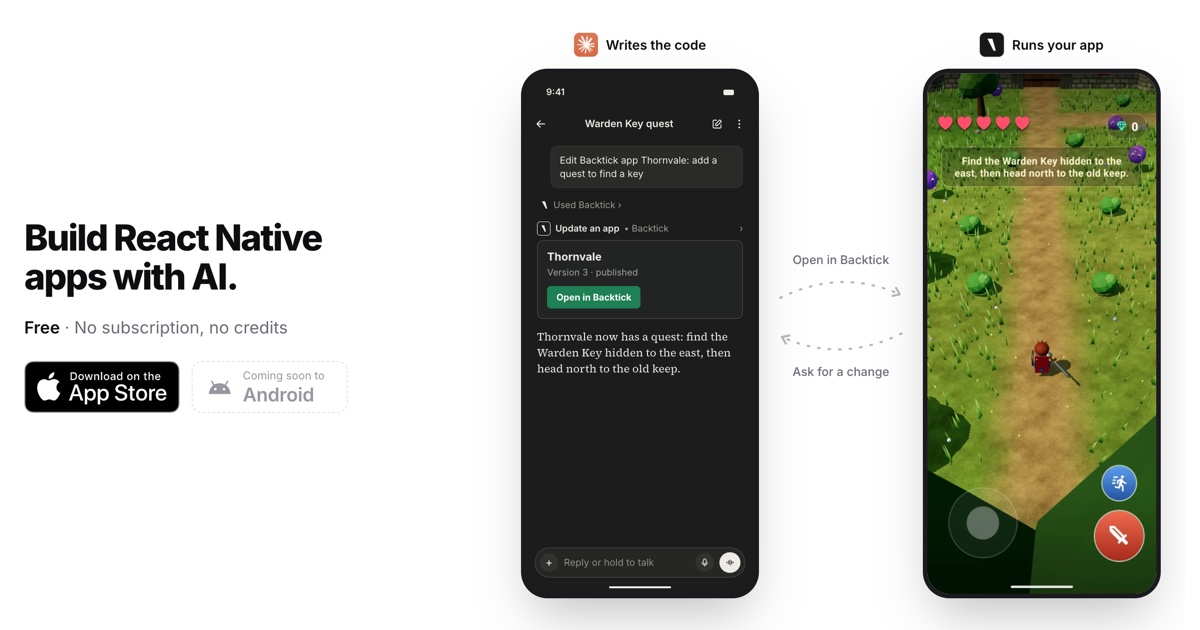
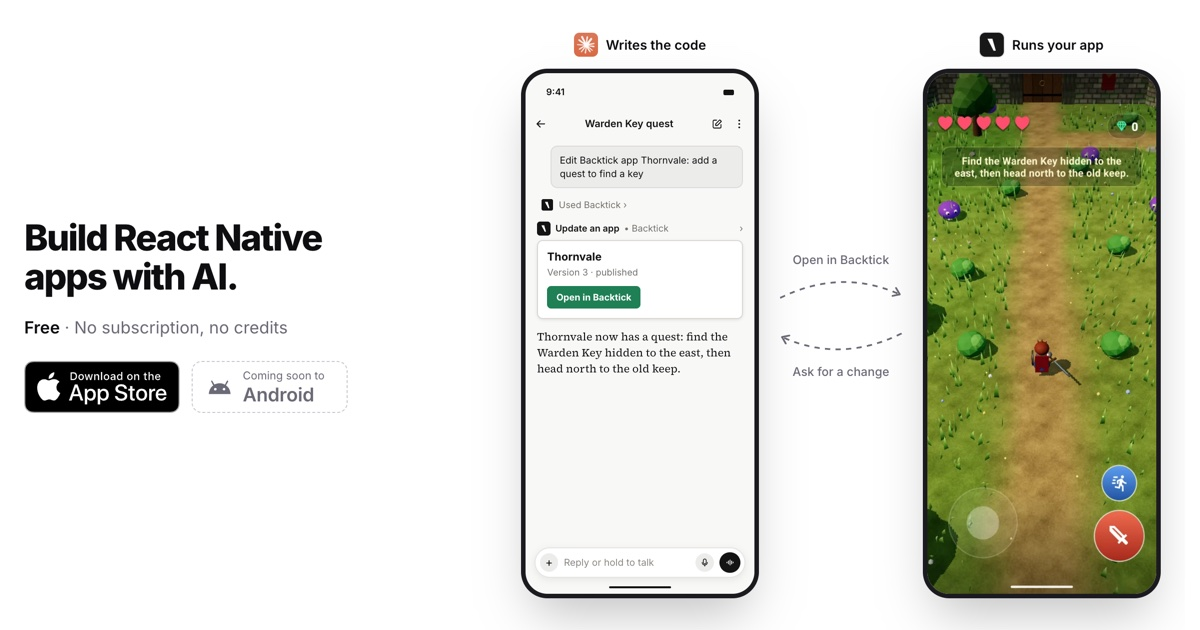
Update the claude colors to match the device theme

Changed region(s): [[0.4317, 0.0905, 0.6475, 0.9651], [0.7708, 0.1206, 0.9867, 0.9651], [0.1542, 0.6032, 0.2775, 0.6333]]

diff --git a/apps/backtickjs.com/src/pages/Home.tsx b/apps/backtickjs.com/src/pages/Home.tsx
@@ -40,7 +40,7 @@ export const Home = cs`() => (
             // The App Store badge's shape and layout, dashed for "not yet".
             // The Android robot is free to use with credit (on the terms
             // page); no Google Play badge until the app is on Google Play.
-            <span class="inline-flex h-[52px] w-[156px] items-center gap-2.5 rounded-[10px] border border-dashed border-line px-3.5 leading-none text-muted/70 select-none">
+            <span class="inline-flex h-[52px] w-[156px] items-center gap-2.5 rounded-[10px] border border-dashed border-[light-dark(#c9c9cf,#4a4a52)] px-3.5 leading-none text-muted select-none">
               <svg
                 viewBox="0 0 24 14"
                 aria-hidden="true"
@@ -89,21 +89,22 @@ export const Home = cs`() => (
           </figcaption>
           {/* A Claude chat, drawn here rather than captured, laid out as
               Claude's mobile app shows a Backtick update: the request, the
-              tool call, its card, then Claude's reply. Sized like the game
-              screenshot beside it, with text in container units so it
-              scales with the phone. */}
+              tool call, its card, then Claude's reply. In Claude's light theme on
+              the light page and its dark theme on the dark one, so it sits in
+              the page rather than standing out. Sized like the game screenshot beside
+              it, with text in container units so it scales with the phone. */}
           <div
             role="img"
             aria-label="A Claude chat: Claude updated Thornvale with Backtick, version 3 published, with an Open in Backtick button"
-            class="@container relative flex aspect-[898/2000] w-full flex-col overflow-hidden rounded-[clamp(14px,2.2vw,30px)] border-[clamp(3px,0.4vw,5px)] border-[#1b1b1f] bg-[#1c1c1b] text-[#ecebe6] shadow-2xl select-none md:h-[min(580px,calc(100svh-230px))] md:w-auto"
+            class="@container relative flex aspect-[898/2000] w-full flex-col overflow-hidden rounded-[clamp(14px,2.2vw,30px)] border-[clamp(3px,0.4vw,5px)] border-[light-dark(#1b1b1f,#000000)] ring-1 ring-[color:light-dark(transparent,rgb(255_255_255/0.12))] bg-[light-dark(#f8f8f6,#1c1c1b)] text-[light-dark(#141413,#ecebe6)] shadow-2xl select-none md:h-[min(580px,calc(100svh-230px))] md:w-auto"
           >
             <div class="flex items-center justify-between px-[9cqw] pt-[5cqw] text-[4cqw] font-semibold">
               <span>9:41</span>
               <span class="flex items-center gap-[1.5cqw]">
-                <span class="h-[2.4cqw] w-[4.5cqw] rounded-[0.6cqw] bg-[#ecebe6]" />
+                <span class="h-[2.4cqw] w-[4.5cqw] rounded-[0.6cqw] bg-[light-dark(#141413,#ecebe6)]" />
               </span>
             </div>
-            <div class="flex items-center gap-[4cqw] px-[4cqw] pt-[7cqw] pb-[4cqw] text-[#ecebe6]">
+            <div class="flex items-center gap-[4cqw] px-[4cqw] pt-[7cqw] pb-[4cqw] text-[light-dark(#141413,#ecebe6)]">
               <svg
                 viewBox="0 0 20 20"
                 class="size-[5.5cqw] shrink-0"
@@ -140,23 +141,25 @@ export const Home = cs`() => (
               </svg>
             </div>
             <div class="flex flex-1 flex-col gap-[4.5cqw] px-[5cqw] pt-[2cqw] text-[4.2cqw] leading-[1.4]">
-              <p class="ml-[6cqw] rounded-[3cqw] border border-[#2f2f2d] bg-[#2a2a28] px-[3.5cqw] py-[3cqw]">
+              <p class="ml-[6cqw] rounded-[3cqw] border border-[light-dark(#dddcd7,#2f2f2d)] bg-[light-dark(#ececea,#2a2a28)] px-[3.5cqw] py-[3cqw]">
                 Edit Backtick app Thornvale: add a quest to find a key
               </p>
-              <p class="ml-[2cqw] flex items-center gap-[2.5cqw] text-[4cqw] text-[#9c9a94]">
-                <svg
-                  viewBox="178 0 29 37"
-                  class="h-[3.4cqw] w-auto text-[#ecebe6]"
-                  fill="currentColor"
-                  aria-hidden="true"
-                >
-                  <path d="M205 36H198.161L180 1H194.773L205 36Z" />
-                </svg>
+              <p class="ml-[2cqw] flex items-center gap-[2.5cqw] text-[4cqw] text-[light-dark(#73726c,#9c9a94)]">
+                <span class="grid size-[5cqw] shrink-0 place-items-center rounded-[0.8cqw] bg-[light-dark(#141413,transparent)] text-[light-dark(#ffffff,#ecebe6)]">
+                  <svg
+                    viewBox="178 0 29 37"
+                    class="h-[3cqw] w-auto"
+                    fill="currentColor"
+                    aria-hidden="true"
+                  >
+                    <path d="M205 36H198.161L180 1H194.773L205 36Z" />
+                  </svg>
+                </span>
                 Used Backtick ›
               </p>
               <div>
                 <p class="mb-[2cqw] flex items-center gap-[2cqw] text-[4cqw]">
-                  <span class="grid size-[6cqw] shrink-0 place-items-center rounded-[1.3cqw] border-[0.4cqw] border-[#ecebe6]">
+                  <span class="grid size-[6cqw] shrink-0 place-items-center rounded-[1.3cqw] border-[0.4cqw] border-[light-dark(#141413,#ecebe6)] bg-[light-dark(#141413,transparent)] text-[light-dark(#ffffff,#ecebe6)]">
                     <svg
                       viewBox="178 0 29 37"
                       class="h-[3cqw] w-auto"
@@ -167,12 +170,16 @@ export const Home = cs`() => (
                     </svg>
                   </span>
                   <span class="font-semibold">Update an app</span>
-                  <span class="text-[#9c9a94]">• Backtick</span>
-                  <span class="ml-auto text-[#9c9a94]">›</span>
+                  <span class="text-[light-dark(#73726c,#9c9a94)]">
+                    • Backtick
+                  </span>
+                  <span class="ml-auto text-[light-dark(#73726c,#9c9a94)]">
+                    ›
+                  </span>
                 </p>
-                <div class="rounded-[2.5cqw] border border-[#3a3a37] bg-[#212422] px-[4cqw] py-[4cqw]">
+                <div class="rounded-[2.5cqw] border border-[light-dark(#d9d8d2,#3a3a37)] bg-[light-dark(#ffffff,#212422)] px-[4cqw] py-[4cqw] shadow-[0_1px_3px_light-dark(#0000001a,#0000)]">
                   <p class="text-[4.8cqw] leading-tight font-bold">Thornvale</p>
-                  <p class="mt-[1cqw] text-[4cqw] text-[#a3a19b]">
+                  <p class="mt-[1cqw] text-[4cqw] text-[light-dark(#73726c,#a3a19b)]">
                     Version 3 · published
                   </p>
                   <span class="mt-[3cqw] inline-block rounded-[1.8cqw] bg-[#1f7f55] px-[4cqw] py-[2.2cqw] text-[4cqw] font-bold text-white">
@@ -180,22 +187,21 @@ export const Home = cs`() => (
                   </span>
                 </div>
               </div>
-              <p class="font-serif text-[4.8cqw] leading-[1.45] text-[#ecebe6] antialiased">
+              <p class="font-serif text-[4.8cqw] leading-[1.45] text-[light-dark(#141413,#ecebe6)] antialiased">
                 Thornvale now has a quest: find the Warden Key hidden to the
                 east, then head north to the old keep.
               </p>
             </div>
-            <div class="mx-[4cqw] mb-[7cqw] flex items-center gap-[2.5cqw] rounded-full border border-[#3a3a37] bg-[#262624] p-[1.8cqw] text-[4.2cqw] text-[#8f8d87]">
-              <span class="grid size-[8cqw] place-items-center rounded-full bg-[#323230] text-[5cqw] leading-none text-[#ecebe6]">
+            <div class="mx-[4cqw] mb-[7cqw] flex items-center gap-[2.5cqw] rounded-full border border-[light-dark(#e6e5e0,#3a3a37)] bg-[light-dark(#ffffff,#262624)] shadow-[0_2px_8px_light-dark(#00000014,#0000)] p-[1.8cqw] text-[4.2cqw] text-[light-dark(#8a8880,#8f8d87)]">
+              <span class="grid size-[8cqw] place-items-center rounded-full bg-[light-dark(#ececea,#323230)] text-[5cqw] leading-none text-[light-dark(#141413,#ecebe6)]">
                 +
               </span>
               <span class="flex-1">Reply or hold to talk</span>
-              <span class="grid size-[8cqw] place-items-center rounded-full bg-[#323230]">
+              <span class="grid size-[8cqw] place-items-center rounded-full bg-[light-dark(#ececea,#323230)]">
                 <svg
+                  class="size-[4.2cqw] stroke-[light-dark(#141413,#ecebe6)]"
                   viewBox="0 0 20 20"
-                  class="size-[4.2cqw]"
                   fill="none"
-                  stroke="#ecebe6"
                   stroke-width="1.6"
                   stroke-linecap="round"
                 >
@@ -203,12 +209,11 @@ export const Home = cs`() => (
                   <path d="M4.5 9.5a5.5 5.5 0 0 0 11 0M10 15v2.5" />
                 </svg>
               </span>
-              <span class="grid size-[9cqw] place-items-center rounded-full bg-[#ecebe6]">
+              <span class="grid size-[9cqw] place-items-center rounded-full bg-[light-dark(#141413,#ecebe6)]">
                 <svg
+                  class="size-[4.5cqw] stroke-[light-dark(#ffffff,#1c1c1b)]"
                   viewBox="0 0 20 20"
-                  class="size-[4.5cqw]"
                   fill="none"
-                  stroke="#1c1c1b"
                   stroke-width="1.6"
                   stroke-linecap="round"
                 >
@@ -216,7 +221,7 @@ export const Home = cs`() => (
                 </svg>
               </span>
             </div>
-            <span class="absolute bottom-[2.5cqw] left-1/2 h-[0.8cqw] w-[27cqw] -translate-x-1/2 rounded-full bg-[#ecebe6]" />
+            <span class="absolute bottom-[2.5cqw] left-1/2 h-[0.8cqw] w-[27cqw] -translate-x-1/2 rounded-full bg-[light-dark(#141413,#ecebe6)]" />
           </div>
         </figure>
         {/* The loop between them: Claude's build opens in Backtick, and a
@@ -229,10 +234,10 @@ export const Home = cs`() => (
             <svg
               viewBox="0 0 150 34"
               aria-hidden="true"
-              class="w-full text-[light-dark(#b8b8bf,#4a4a52)]"
+              class="w-full text-muted"
               fill="none"
               stroke="currentColor"
-              stroke-width="2.5"
+              stroke-width="2"
               stroke-linecap="round"
               stroke-linejoin="round"
             >
@@ -251,7 +256,7 @@ export const Home = cs`() => (
                     d="M3 2 10 7 3 12"
                     fill="none"
                     stroke="currentColor"
-                    stroke-width="2.5"
+                    stroke-width="2"
                     stroke-linecap="round"
                     stroke-linejoin="round"
                   />
@@ -259,7 +264,8 @@ export const Home = cs`() => (
               </defs>
               <path
                 d="M6 30Q75-4 142 26"
-                stroke-dasharray="2 10"
+                stroke-dasharray="6 6"
+                stroke-linecap="butt"
                 marker-end="url(#arrow-open)"
               />
             </svg>
@@ -268,10 +274,10 @@ export const Home = cs`() => (
             <svg
               viewBox="0 0 150 34"
               aria-hidden="true"
-              class="w-full text-[light-dark(#b8b8bf,#4a4a52)]"
+              class="w-full text-muted"
               fill="none"
               stroke="currentColor"
-              stroke-width="2.5"
+              stroke-width="2"
               stroke-linecap="round"
               stroke-linejoin="round"
             >
@@ -290,7 +296,7 @@ export const Home = cs`() => (
                     d="M3 2 10 7 3 12"
                     fill="none"
                     stroke="currentColor"
-                    stroke-width="2.5"
+                    stroke-width="2"
                     stroke-linecap="round"
                     stroke-linejoin="round"
                   />
@@ -298,7 +304,8 @@ export const Home = cs`() => (
               </defs>
               <path
                 d="M144 4Q75 38 8 8"
-                stroke-dasharray="2 10"
+                stroke-dasharray="6 6"
+                stroke-linecap="butt"
                 marker-end="url(#arrow-ask)"
               />
             </svg>
@@ -319,7 +326,7 @@ export const Home = cs`() => (
           <img
             src="/thornvale.webp"
             alt="Thornvale, the 3D adventure game Claude built, running in Backtick"
-            class="block aspect-[898/2000] w-full rounded-[clamp(14px,2.2vw,30px)] border-[clamp(3px,0.4vw,5px)] border-[#1b1b1f] bg-[#0b0b0d] shadow-2xl md:h-[min(580px,calc(100svh-230px))] md:w-auto"
+            class="block aspect-[898/2000] w-full rounded-[clamp(14px,2.2vw,30px)] border-[clamp(3px,0.4vw,5px)] border-[light-dark(#1b1b1f,#000000)] ring-1 ring-[color:light-dark(transparent,rgb(255_255_255/0.12))] bg-[#0b0b0d] shadow-2xl md:h-[min(580px,calc(100svh-230px))] md:w-auto"
           />
         </figure>
       </div>
